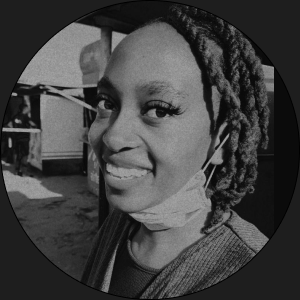
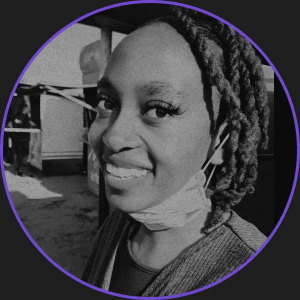
Colors

diff --git a/index.css b/index.css
@@ -3,7 +3,7 @@
 @import url('https://fonts.googleapis.com/css2?family=Outfit:wght@200;300;400;500;600;700;800&family=Roboto:wght@100;300;400&display=swap');
 
 :root {
-    --primary-color: #f9532d;
+    --primary-color: #7149ce;
     --primary-dark: #1F252E;
 }
 
@@ -144,7 +144,7 @@ li a:hover {
 }   
 .images img {
     border-radius: 50%;
-    box-shadow: 0 0 10px #D1D9E6;
+    box-shadow: 0 0 10px #7149ce;
 }
 
 /* Section 1 End */
